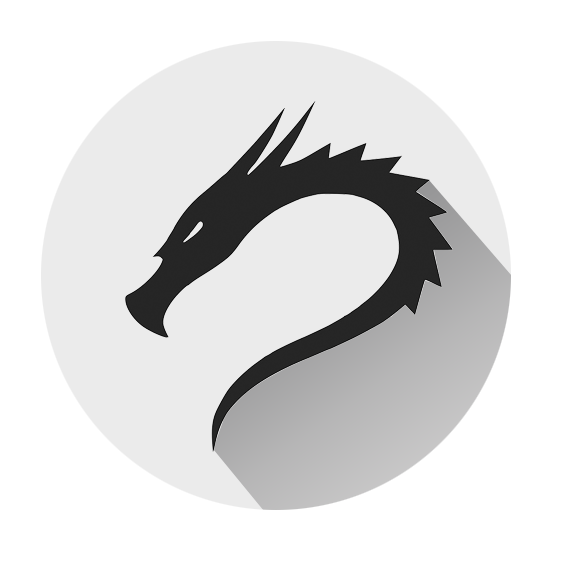
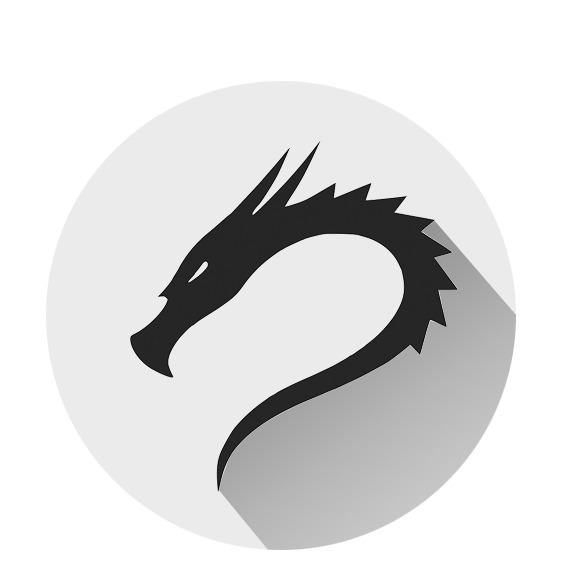
going better

Changed region(s): [[0.2117, 0.1815, 0.9377, 0.9377], [0.5445, 0.1815, 0.5747, 0.2117]]

diff --git a/main.py b/main.py
@@ -52,14 +52,15 @@ class User:
 		self.submit['state'] = 'disabled'
 		img = Img.open(self.filename, 'r')
 		img_w, img_h = img.size
-		background = Img.new('RGBA', (img_w+50, img_h+50), (255, 255, 255, 255))
+		border = 50
+		background = Img.new('RGBA', (img_w+border, int(img_h+border*1.5)), (255, 255, 255, 255))
 		bg_w, bg_h = background.size
-		offset = (bg_w // 28, bg_h // 28)
+		offset = ((border//2) , int((border+10)))
 		background.paste(img, offset)
 		background.save('out.png')
 
 
-		messagebox.showinfo("Output", "Are you ok with this ?")
+		# messagebox.showinfo("Output", "Are you ok with this ?")
 
 		self.submit['state'] = 'normal'
 
